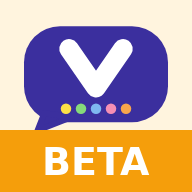
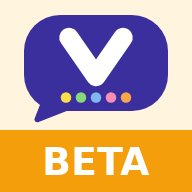
About screen: hide empty placeholders in stable
Claude-Session: https://claude.ai/code/session_01FWBpMLhLkgHMqPAekRGAVj

Changed region(s): [[0.125, 0.0625, 0.875, 0.6875]]

diff --git a/beta/js/about.js b/beta/js/about.js
@@ -2,7 +2,7 @@
 // The creator and the links come from data/about.json, so they can be filled in later without touching any code
 // (see README, "Filling in the About screen"). Empty values show a clearly marked placeholder so the spot is visible.
 import { h, openOverlay } from "./ui.js";
-import { VERSION_LABEL } from "./channel.js";
+import { VERSION_LABEL, CHANNEL } from "./channel.js";
 
 const FULL_NAME = "Variable Output for Individualized Communication and Expression";
 const ONE_LINE = "A free AAC app that grows with the learner.";
@@ -19,6 +19,9 @@ async function loadAbout() {
   }
 }
 
+// Placeholders ("Creator name goes here", "Link coming soon") are for the beta only. Stable shows nothing for empty values.
+const SHOW_PLACEHOLDERS = CHANNEL !== "stable";
+
 const text = (v) => (typeof v === "string" ? v.trim() : "");
 
 export async function openAbout() {
@@ -29,12 +32,13 @@ export async function openAbout() {
   const links = Array.isArray(about.links) ? about.links : [];
 
   // Creator: placeholder (muted italic) while the name is empty.
-  const creator = h("section", { class: "panel about-creator", id: "about-creator" },
+  // In stable, the whole Creator section is left out when there is nothing to show in it.
+  const creator = (name || creds || bio || SHOW_PLACEHOLDERS) ? h("section", { class: "panel about-creator", id: "about-creator" },
     h("h2", { text: "Creator" }),
     name ? h("p", { class: "about-name", id: "about-creator-name", text: name })
-         : h("p", { class: "about-placeholder", id: "about-creator-name", text: "Creator name goes here" }),
+         : (SHOW_PLACEHOLDERS ? h("p", { class: "about-placeholder", id: "about-creator-name", text: "Creator name goes here" }) : null),
     creds ? h("p", { class: "about-creds", text: creds }) : null,
-    bio ? h("p", { class: "about-bio", text: bio }) : null);
+    bio ? h("p", { class: "about-bio", text: bio }) : null) : null;
 
   // Links: a button when there is a web address, otherwise a muted "coming soon" line. Opens in a new tab.
   const linkItems = links.map((l) => {
@@ -42,11 +46,12 @@ export async function openAbout() {
     const url = text(l && l.url);
     return url
       ? h("a", { class: "btn about-link", href: url, target: "_blank", rel: "noopener", text: label })
-      : h("span", { class: "about-placeholder about-link-soon", text: "Link coming soon: " + label });
-  });
-  const linkSection = h("section", { class: "panel", id: "about-links" },
+      : (SHOW_PLACEHOLDERS ? h("span", { class: "about-placeholder about-link-soon", text: "Link coming soon: " + label }) : null);
+  }).filter(Boolean);
+  // No heading when there is nothing to list (stable, all links empty).
+  const linkSection = linkItems.length ? h("section", { class: "panel", id: "about-links" },
     h("h2", { text: "Resources" }),
-    h("div", { class: "about-link-row" }, linkItems));
+    h("div", { class: "about-link-row" }, linkItems)) : null;
 
   const credits = h("section", { class: "panel", id: "about-credits" },
     h("h2", { text: "Credits" }),

diff --git a/beta/sw.js b/beta/sw.js
@@ -1,6 +1,6 @@
 // Service worker: caches every app file so the board works offline.
 // When you change any file, bump CACHE_VERSION so devices pick up the update.
-const CACHE_VERSION = "beta-aac-v3";
+const CACHE_VERSION = "beta-aac-v4";
 // The stable app and the beta copy live on the same website, so they share one cache storage.
 // Each copy only ever deletes caches that start with ITS OWN prefix, and ignores the other copy's folder.
 // (tools/make-beta.sh swaps these three lines in beta/sw.js: "beta-aac-v1", "beta-aac-" and "".)

diff --git a/tools/make-icons.py b/tools/make-icons.py
@@ -1,7 +1,7 @@
 #!/usr/bin/env python3
 """Draws the VOICE home-screen icons (PNG) from tools/icon/voice-icon.svg into tools/icon/.
     python3 tools/make-icons.py
-Makes icon-180.png, icon-192.png, icon-512.png, icon-maskable-512.png (artwork shrunk into the safe centre so
+Makes (into tools/icon/, plus raised bases for the beta in tools/icon/beta-base/) icon-180.png, icon-192.png, icon-512.png, icon-maskable-512.png (artwork shrunk into the safe centre so
 Android can crop it) and apple-touch-icon.png (180). Then run tools/make-beta-icons.py for the BETA-band copies.
 Drawing needs one of: cairosvg (pip install cairosvg), or Playwright with Chromium (what is used offline here).
 The PNGs are committed, so you only run this if the artwork changes. Nothing here needs the internet."""
@@ -9,12 +9,25 @@ import os, re, io
 HERE = os.path.dirname(os.path.abspath(__file__))
 OUT = os.path.join(HERE, "icon")
 SVG = open(os.path.join(OUT, "voice-icon.svg"), encoding="utf-8").read()
-# Maskable: shrink the artwork and centre it so a round or squircle crop never cuts it.
-MASKABLE = SVG.replace('<g id="art">', '<g id="art" transform="translate(256 256) scale(0.7) translate(-256 -209)">')
-assert MASKABLE != SVG, "could not find <g id=\"art\"> in the SVG"
+# The art in <g id="art"> spans about x 64-448, y 70-356 (centre y 213). Each layout wraps it in a transform:
+#   normal   centred vertically and 8% larger (the stable icons; tools/promote-beta.sh copies them to icons/)
+#   maskable smaller, in the safe centre so a round or squircle crop never cuts it
+#   beta     raised so the orange BETA band (bottom 32%, drawn by tools/make-beta-icons.py) never covers the tail
+def layout(transform):
+    out = SVG.replace('<g id="art">', f'<g id="art" transform="{transform}">')
+    assert out != SVG, "could not find <g id=\"art\"> in the SVG"
+    return out
+NORMAL = layout("translate(256 256) scale(1.08) translate(-256 -213)")
+MASKABLE = layout("translate(256 256) scale(0.7) translate(-256 -213)")
+BETA = layout("translate(0 -30)")
+BETA_MASKABLE = layout("translate(256 236) scale(0.64) translate(-256 -213)")
 
-JOBS = [("icon-180.png", 180, SVG), ("icon-192.png", 192, SVG), ("icon-512.png", 512, SVG),
-        ("icon-maskable-512.png", 512, MASKABLE), ("apple-touch-icon.png", 180, SVG)]
+BASE = os.path.join(OUT, "beta-base")   # unbanded bases for the beta icons
+os.makedirs(BASE, exist_ok=True)
+JOBS = [("icon-180.png", 180, NORMAL), ("icon-192.png", 192, NORMAL), ("icon-512.png", 512, NORMAL),
+        ("icon-maskable-512.png", 512, MASKABLE), ("apple-touch-icon.png", 180, NORMAL),
+        ("beta-base/icon-180.png", 180, BETA), ("beta-base/icon-192.png", 192, BETA), ("beta-base/icon-512.png", 512, BETA),
+        ("beta-base/icon-maskable-512.png", 512, BETA_MASKABLE), ("beta-base/apple-touch-icon.png", 180, BETA)]
 
 def with_cairosvg():
     import cairosvg

diff --git a/tools/make-beta-icons.py b/tools/make-beta-icons.py
@@ -6,7 +6,7 @@ import os
 from PIL import Image, ImageDraw, ImageFont
 
 HERE = os.path.dirname(os.path.abspath(__file__))
-ICONS = os.path.join(HERE, "icon")          # the new unbanded VOICE icons
+ICONS = os.path.join(HERE, "icon", "beta-base")   # VOICE icons with the art raised to leave room for the band
 OUT = os.path.join(HERE, "beta-icons")
 os.makedirs(OUT, exist_ok=True)
 

diff --git a/README.md b/README.md
@@ -417,9 +417,10 @@ a credits summary, the privacy note and the version. The creator and links are n
              {"label": "Trainings", "url": ""}, {"label": "Contact", "url": ""} ] }
 ```
 - `creatorName`, `creatorCredentials` (for example "M.S., BCBA") and `creatorBio` (a few sentences) are shown under "Creator".
-  While `creatorName` is empty, the screen shows the muted italic line "Creator name goes here" so you can see the spot.
+  In the beta, while `creatorName` is empty, the screen shows the muted italic line "Creator name goes here" so you can see the spot.
 - Each entry in `links` needs a `label` (the button text) and a full `url` starting with `https://` (a Contact link can be
   `mailto:you@example.com`). A link with an empty `url` shows as the muted line "Link coming soon: Website" instead of a button.
+  These placeholders show **only in beta**; in stable, empty creator and empty links are left out entirely (no Resources heading if every link is empty).
   You can rename, remove or add entries. Links open in a new tab and need internet; the rest of the app stays fully offline.
 - Keep it valid JSON (straight double quotes, commas between entries, none after the last). If the file is broken the placeholders show.
 - After editing, raise `CACHE_VERSION` in that copy's `sw.js` (for example `beta-aac-v3` to `beta-aac-v4`) so devices fetch the new file.
